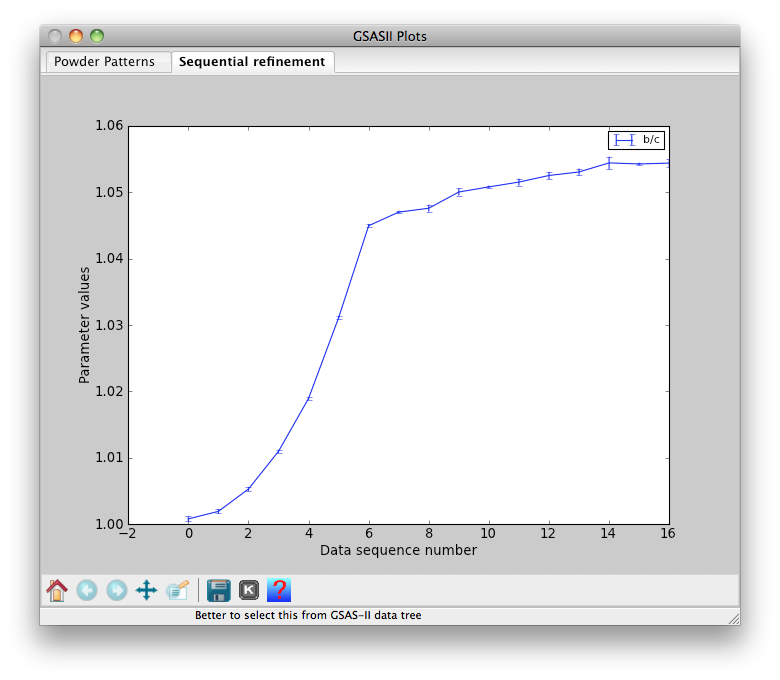
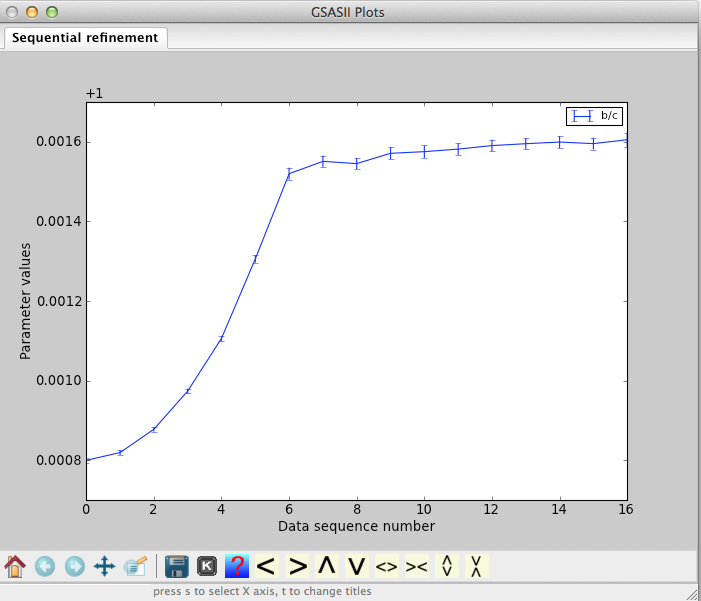
fixes to seq results display & update tutorials

diff --git a/help/SequentialTutorial.htm b/help/SequentialTutorial.htm
@@ -2594,8 +2594,7 @@ this plot:</p>
 mso-no-proof:yes'><!--[if gte vml 1]><v:shape id="Picture_x0020_42" o:spid="_x0000_i1037"
  type="#_x0000_t75" style='width:349.5pt;height:300pt;visibility:visible;
  mso-wrap-style:square'>
- <v:imagedata src="SequentialTutorial_files/image074.png" o:title="" croptop="1185f"
-  cropbottom="2863f" cropleft="1936f" cropright="1768f"/>
+ <v:imagedata src="SequentialTutorial_files/image074.png" o:title=""/>
 </v:shape><![endif]--><![if !vml]><img border=0 width=466 height=400
 src="SequentialTutorial_files/image074.png" v:shapes="Picture_x0020_42"><![endif]></span></p>
 

diff --git a/GSASIIgrid.py b/GSASIIgrid.py
@@ -3426,7 +3426,8 @@ def UpdateSeqResults(G2frame,data,prevSize=None):
         'strip a histogram number from a var name'
         sv = var.split(':')
         if len(sv) <= 1: return var
-        sv[1] = insChar
+        if sv[1]:
+            sv[1] = insChar
         return ':'.join(sv)
         
     def plotSpCharFix(lbl):
@@ -3957,23 +3958,25 @@ def UpdateSeqResults(G2frame,data,prevSize=None):
 
     # scan for locations where the variables change
     VaryListChanges = [] # histograms where there is a change
-    prevVaryList = []
     combinedVaryList = []
     firstValueList = []
     vallookup = {}
     posdict = {}
     for i,name in enumerate(histNames):
-        if i == 0 or prevVaryList != sorted(data[name]['varyList']):
+        newval = False
+        for var,val in zip(data[name]['varyList'],data[name]['variables']):
+            svar = striphist(var,'*')
+            if svar in combinedVaryList: continue
             # add variables to list as they appear
-            for j,var in enumerate(data[name]['varyList']):
-                if var in combinedVaryList: continue
-                combinedVaryList.append(data[name]['varyList'][j])
-                firstValueList.append(data[name]['variables'][j])
+            combinedVaryList.append(svar)
+            firstValueList.append(val)
+            newval = True
+        if newval:
             vallookup[name] = dict(zip(data[name]['varyList'],data[name]['variables']))
             posdict[name] = {}
-            for lbl in data[name]['varyList']:
-                posdict[name][combinedVaryList.index(lbl)] = lbl            
-            prevVaryList = sorted(data[name]['varyList'])
+            for var in data[name]['varyList']:
+                svar = striphist(var,'*')
+                posdict[name][combinedVaryList.index(svar)] = svar
             VaryListChanges.append(name)
     if len(VaryListChanges) > 1:
         G2frame.dataFrame.SequentialFile.Enable(wxID_ORGSEQSEL,True)
@@ -4062,7 +4065,8 @@ def UpdateSeqResults(G2frame,data,prevSize=None):
     for name in histNames:
         if name in posdict:
             varsellist = [posdict[name].get(i) for i in range(varcols)]
-            sellist = [data[name]['varyList'].index(v) if v is not None else None for v in varsellist]
+            #sellist = [data[name]['varyList'].index(v) if v is not None else None for v in varsellist]
+            sellist = [i if striphist(v,'*') in varsellist else None for i,v in enumerate(data[name]['varyList'])]
         if not varsellist: raise Exception()
         vals.append([data[name]['variables'][s] if s is not None else None for s in sellist])
         esds.append([data[name]['sig'][s] if s is not None else None for s in sellist])

diff --git a/GSASIIexprGUI.py b/GSASIIexprGUI.py
@@ -172,6 +172,8 @@ class ExpressionDialog(wx.Dialog):
         for key in parmDict:
             try: # deal with values that are in lists
                 val = parmDict[key][0]
+            except KeyError:
+                continue # there were dicts in parmDict (should be gone now)
             except (TypeError,IndexError):
                 val = parmDict[key]
             if isinstance(val, basestring): continue
